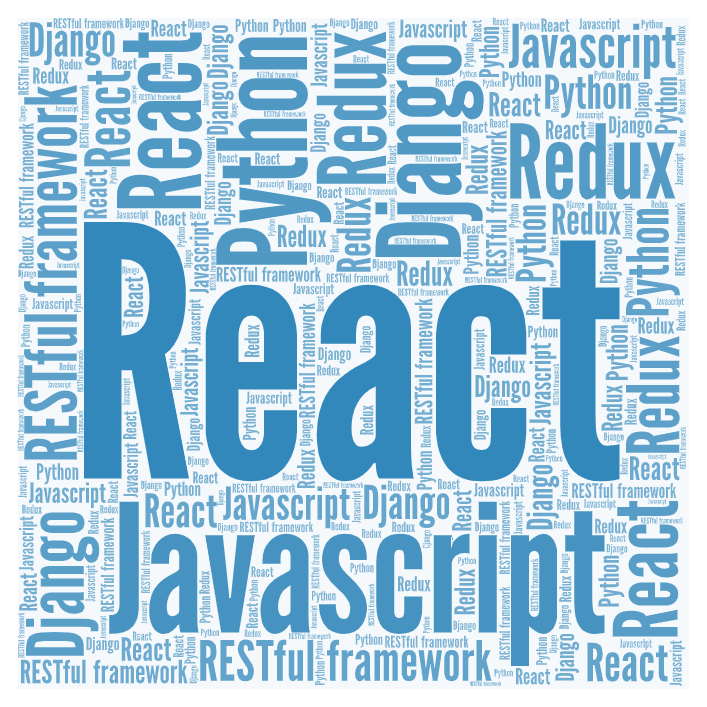
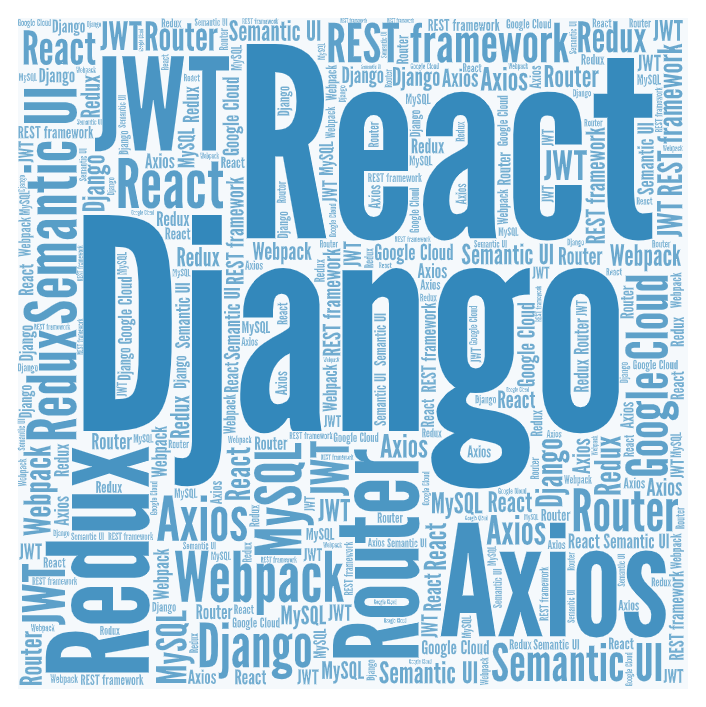
readme

diff --git a/README.md b/README.md
@@ -1,5 +1,46 @@
 # Autocart
 
+
+## Description
+
+An ecommerce website with Django and React. 
+
+### Tech Stack
+
+- front-end
+	- React
+	- Redux
+	- Router
+	- Axios
+	- Semantic Ui	
+	- Webpack
+
+- back-end
+	- Django
+	- REST framework
+	- JWT
+	
+- storage
+	- SQLite(master)
+	- MySQL(mysql branch)
+
+- deployment
+	- Google Cloud
+
+### Features
+
+- authentication
+- product list
+- cart
+- order history
+- rating and comment
+- edit mode for administrator 
+
+
+## Demo
+
+[demo](https://autocart.rj.r.appspot.com/) on Google Cloud
+
 ## How to run
 
 ```
@@ -26,3 +67,5 @@ python Autocart/manage.py runserver
 # run webpack for dev, 'npm run build' for production
 npm run dev
 ```
+
+## 
